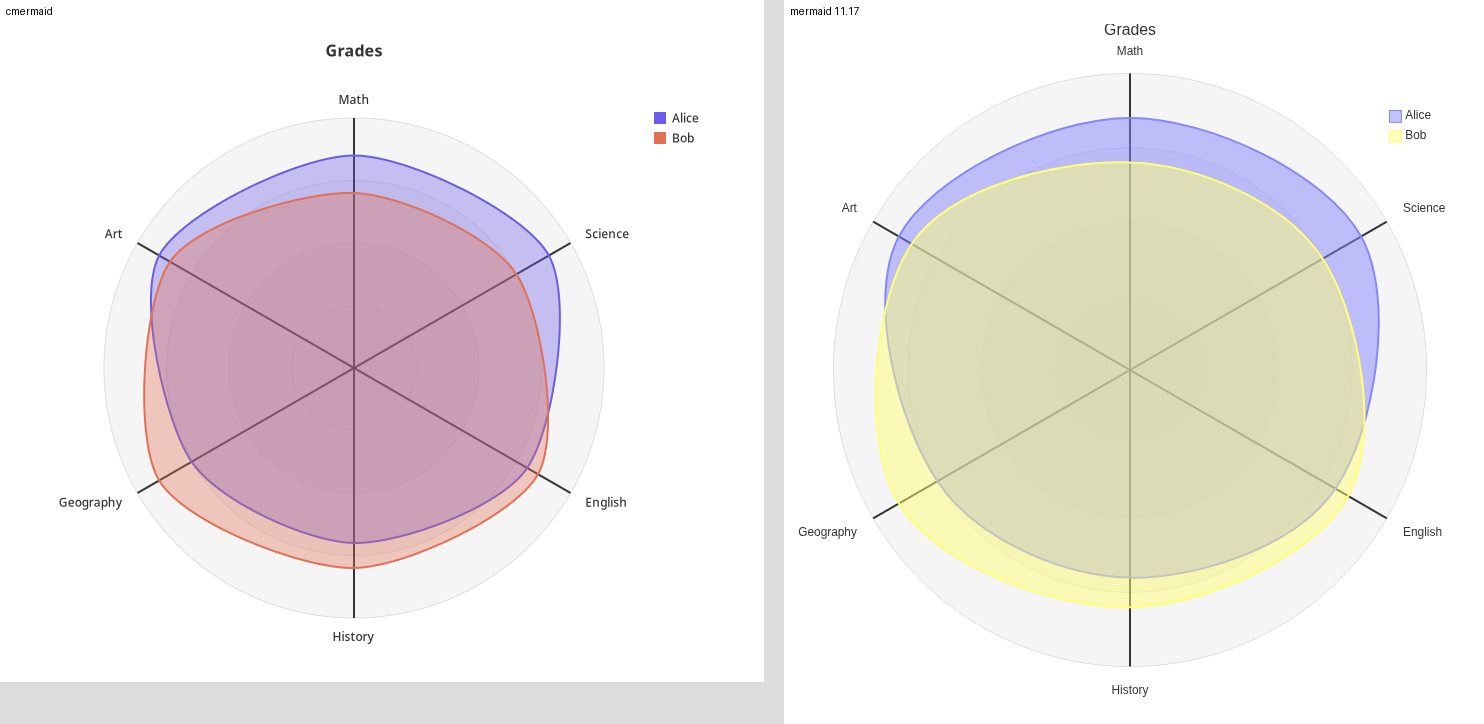
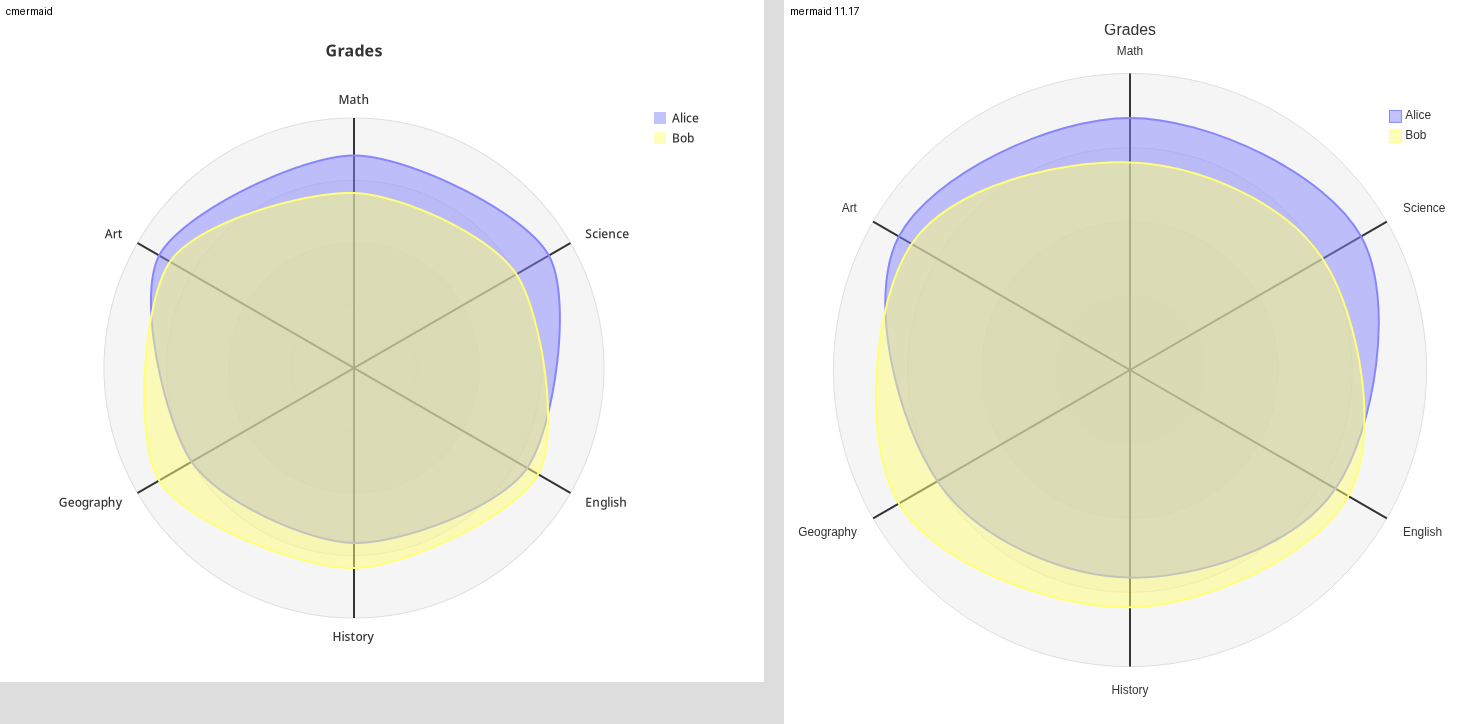
radar: mermaid 11 cScale curve palette, 0.5 fill opacity

Changed region(s): [[0.093, 0.2127, 0.372, 0.7901], [0.434, 0.1519, 0.465, 0.2127]]

diff --git a/src/d_radar.c b/src/d_radar.c
@@ -9,15 +9,15 @@
 #include "text.h"
 
 typedef struct Axis { Str id, label; } Axis;
-static const char *const COL[] = {"#6c5ce7", "#e17055", "#00a884", "#fdcb6e", "#0984e3", "#d63031",
-                                  "#a29bfe", "#55efc4", "#e84393", "#636e72", "#fab1a0", "#2d3436"};
+/* mermaid 11 default cScale (radarCurve-N) */
+static const char *const COL[] = {"#8686ff", "#ffff78", "#d7ff86", "#c286ff", "#ff86ff", "#ff86c2", "#ff8686", "#ffc286", "#c2ff86", "#86ffc2", "#86ffff", "#86c2ff"};
 typedef struct Curve { Str id, label; uint32_t v0; } Curve;
 
 static constexpr char CSS[] =
     "#mermaid .gr{fill:#DEDEDE;fill-opacity:.3;stroke:#DEDEDE;stroke-width:1px;}"
     "#mermaid .ax{stroke:#333;stroke-width:2px;}#mermaid .al{font-size:12px;fill:#333;}"
-    "#mermaid .cv{fill-opacity:.35;stroke-width:2px;}#mermaid .lg{font-size:12px;fill:#333;}"
-    "#mermaid .ttl{font-size:16px;fill:#333;font-weight:bold;}";
+    "#mermaid .cv{fill-opacity:.5;stroke-width:2px;}#mermaid .lg{font-size:12px;fill:#333;}"
+    "#mermaid .lb{fill-opacity:.5;}#mermaid .ttl{font-size:16px;fill:#333;font-weight:bold;}";
 
 /* id or id["label"] at the front of s */
 static void id_label(Str *s, Str *id, Str *label) {
@@ -171,7 +171,7 @@ DIAG_FN(radar_render) {
     if (legend)
         for (size_t c = 0; c < cv.n; c++) {
             double y = cy - R + 20 * (double)c;
-            dg_rect_fill(out, CX + R + 50, y - 6, 12, 12, 0, nullptr, COL[c % countof(COL)]);
+            dg_rect_fill(out, CX + R + 50, y - 6, 12, 12, 0, "lb", COL[c % countof(COL)]);
             dg_text(out, cv.v[c].label, 12, CX + R + 68, y, "start", "lg");
         }
     if (title.n) dg_text(out, title, 16, CX, 22, "middle", "ttl");
